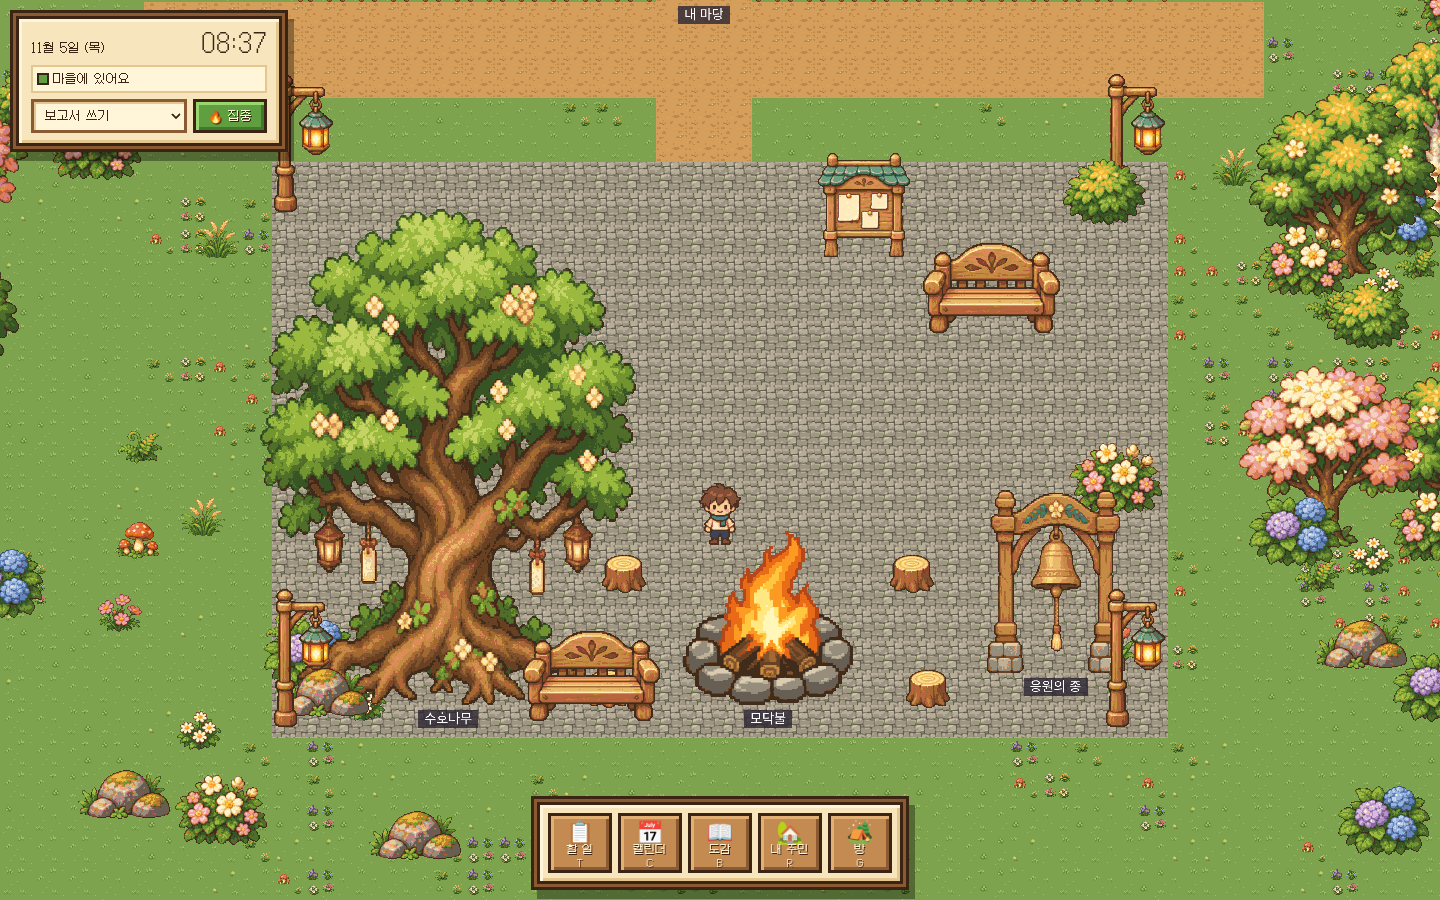
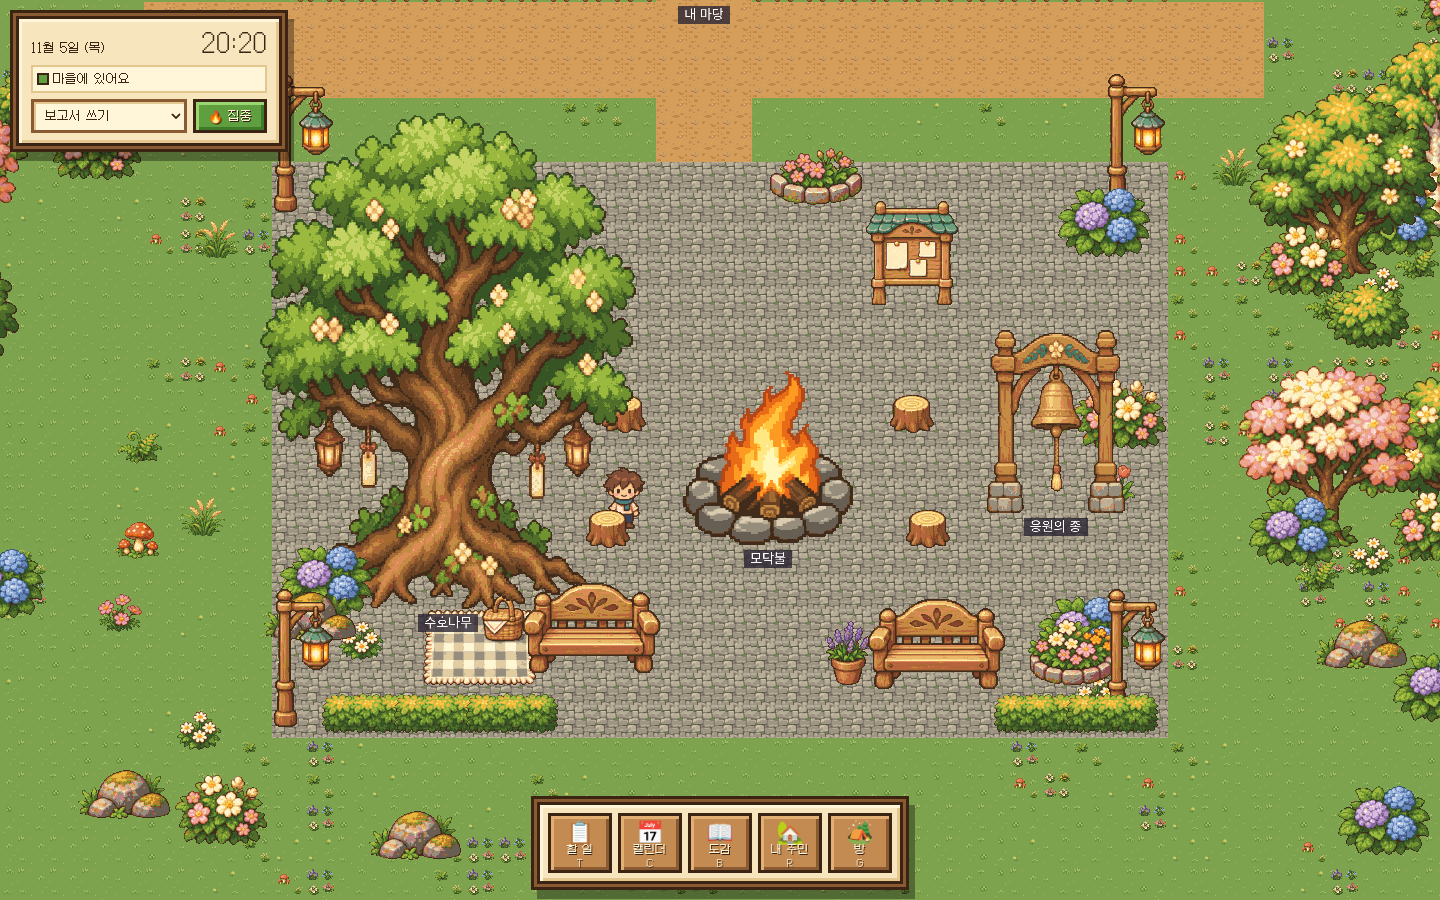
Rebalance plaza landmarks and add garden seating

Changed region(s): [[0.1562, 0.1244, 0.8125, 0.84], [0.5938, 0.4356, 0.6562, 0.4978], [0.1562, 0.0311, 0.1875, 0.0622]]

diff --git a/src/world/decor.ts b/src/world/decor.ts
@@ -160,23 +160,31 @@ export function plazaDecor(layout: VillageLayout): DecorItem[] {
   const fy = fire.row + 1;
   const bottom = plaza.row + plaza.rows;
   return [
-    // 모닥불 둘레의 그루터기 의자와 뒤쪽 벤치
+    // 중앙 모닥불과 좌석. 최대 크기에서도 의자와 돌 테두리가 겹치지 않아요.
     item('decor-stump', fx - 5, fy + 0.1), item('decor-stump', fx + 5, fy + 0.1),
     item('decor-stump', fx - 4.5, fy - 3.5), item('decor-stump', fx + 4.5, fy - 3.5),
-    item('decor-bench', anchors.guardianTree.col + 5, bottom - 0.5),
-    item('decor-bench', plaza.col + 22.5, plaza.row + 5.4),
-    // 광장 입구 옆 게시판, 양쪽 아래 등불
-    item('decor-noticeboard', plaza.col + 18.5, plaza.row + 3),
+    // 아래쪽은 나무 그늘과 꽃정원 쉼터. 가운데 3칸은 계속 열어 둬요.
+    item('decor-bench', anchors.guardianTree.col + 5, bottom - 2),
+    item('decor-picnic', anchors.guardianTree.col + 1.5, bottom - 1.6),
+    item('decor-bench', plaza.col + 20.8, bottom - 1.5),
+    item('decor-flowerbed-round', plaza.col + 25, bottom - 1.6),
+    item('decor-pot-lavender', plaza.col + 18, bottom - 1.6),
+    item('decor-bush-hydrangea', plaza.col + 25.4, bottom - 2.2),
+    item('decor-flowers-daisy', plaza.col + 25.8, bottom - 0.7),
+    // 북쪽 입구 옆의 환영 꽃밭과 게시판, 네 귀퉁이 등불
+    item('decor-flower-border', plaza.col + 17, plaza.row + 1.4),
+    item('decor-noticeboard', plaza.col + 20, plaza.row + 4.5),
     item('decor-lantern', plaza.col + 1, bottom - 0.3), item('decor-lantern', plaza.col + plaza.cols - 1, bottom - 0.3),
     item('decor-lantern', plaza.col + 1, plaza.row + 1.6), item('decor-lantern', plaza.col + plaza.cols - 1, plaza.row + 1.6),
-    // 수호나무 주변과 광장 가장자리의 꽃과 덤불
-    item('decor-bush-hydrangea', anchors.guardianTree.col - 3.8, bottom - 1.5),
-    item('decor-moss-rocks', anchors.guardianTree.col - 3.4, bottom - 0.6),
-    item('decor-flowers-daisy', anchors.guardianTree.col - 2.1, bottom - 0.5),
-    item('decor-fern', anchors.guardianTree.col - 4.5, bottom - 2.8),
-    item('decor-bush-round', plaza.col + plaza.cols - 2, plaza.row + 2),
-    item('decor-bush-blossom', plaza.col + plaza.cols - 1.6, plaza.row + 11),
+    // 수호나무 밑동에 식물을 붙여 놓고, 종 옆과 남쪽 가장자리에도 녹색 테두리를 만들어요.
+    item('decor-bush-hydrangea', anchors.guardianTree.col - 3.3, anchors.guardianTree.row + 1.2),
+    item('decor-moss-rocks', anchors.guardianTree.col - 3.8, anchors.guardianTree.row + 2),
+    item('decor-flowers-daisy', anchors.guardianTree.col - 2.2, anchors.guardianTree.row + 2.6),
+    item('decor-fern', anchors.guardianTree.col - 4, anchors.guardianTree.row + 0.6),
+    item('decor-bush-hydrangea', plaza.col + plaza.cols - 2, plaza.row + 3),
+    item('decor-bush-blossom', plaza.col + plaza.cols - 1.5, plaza.row + 9),
     item('decor-flowers-tulip', anchors.bell.col + 2.3, anchors.bell.row + 0.8),
+    ...[3, 5.25, 7.5, 24, 26.25].map((dx) => item('decor-hedge', plaza.col + dx, bottom - 0.1)),
   ];
 }
 

diff --git a/src/world/layout.ts b/src/world/layout.ts
@@ -73,9 +73,9 @@ export const TEMPLATE = {
   plaza: { col: 34, row: 30, cols: 28, rows: 18 },
   plazaConnector: { col: 46, row: 28, cols: 3, rows: 2 },
   anchors: {
-    guardianTree: { col: 39, row: 46 },
-    campfire: { col: 49, row: 46 },
-    bell: { col: 58, row: 45 },
+    guardianTree: { col: 39, row: 43 },
+    campfire: { col: 49, row: 41 },
+    bell: { col: 58, row: 40 },
   },
   boundsPaddingCols: 2,
   boundsPaddingRows: { top: 3, bottom: 2 },

diff --git a/AGENTS.md b/AGENTS.md
@@ -217,7 +217,7 @@
   - 모든 마당 공통: 320픽셀 집 앞 돌 테라스, 왼쪽 나무 그늘·벤치·돗자리, 오른쪽 꽃·원예 공간, 아래 귀퉁이의 관목·꽃·돌 무리. 무리 안에서만 위치를 조금씩 달리하고 가운데 활동 공간과 3타일 길은 비워요.
   - 마당 크기는 28×22타일 그대로예요. 커진 집이 북쪽 울타리 안에 들어가도록 집 기준점을 아래로 옮겼고, 반죽·주민 시작 위치도 집 아래쪽 빈터에 맞췄어요.
   - 풀 바닥은 마당 안이면 그 테마의 꽃 풀밭, 바깥이면 섞인 들꽃·고사리·버섯 풀밭을 3×3칸 무리로 섞어요.
-  - 광장은 28×18타일. 수호나무는 왼쪽, 모닥불과 그루터기 의자는 가운데 아래쪽, 종·게시판·벤치는 오른쪽에 놓아요. 큰 나무와 의자가 광장 입구 길을 막지 않게 해요.
+  - 광장은 28×18타일. 수호나무는 왼쪽 위, 모닥불과 그루터기 의자는 가운데, 종·게시판은 오른쪽 위에 놓아요. 아래쪽은 나무 그늘의 벤치·돗자리와 꽃정원 쉼터, 낮은 생울타리로 채워요. 광장 입구와 가운데 3타일 폭 통로는 열어 둬요.
   - 마을 바깥: 위쪽에 나무 띠, 마당 사이와 큰길 아래 풀밭에 나무·덤불·꽃 무리 (길·광장·마당은 피해요).
   - 꽃·풀·돗자리는 지나갈 수 있고(캐릭터 아래 층), 나머지는 발밑만 막고 발밑 y로 앞뒤를 정해요.
 - `design/village/layout-template.json`과 `expandable-layout.mjs`는 인원 상한 없는 배치 참고 자료예요. 앱은 6명부터 둥글게 퍼지는 배치를 써서, 이 참고 자료(좌우 한 줄 반복)와 달라요. 맞출지는 Codex·사용자가 정해요.

diff --git a/CLAUDE.md b/CLAUDE.md
@@ -217,7 +217,7 @@
   - 모든 마당 공통: 320픽셀 집 앞 돌 테라스, 왼쪽 나무 그늘·벤치·돗자리, 오른쪽 꽃·원예 공간, 아래 귀퉁이의 관목·꽃·돌 무리. 무리 안에서만 위치를 조금씩 달리하고 가운데 활동 공간과 3타일 길은 비워요.
   - 마당 크기는 28×22타일 그대로예요. 커진 집이 북쪽 울타리 안에 들어가도록 집 기준점을 아래로 옮겼고, 반죽·주민 시작 위치도 집 아래쪽 빈터에 맞췄어요.
   - 풀 바닥은 마당 안이면 그 테마의 꽃 풀밭, 바깥이면 섞인 들꽃·고사리·버섯 풀밭을 3×3칸 무리로 섞어요.
-  - 광장은 28×18타일. 수호나무는 왼쪽, 모닥불과 그루터기 의자는 가운데 아래쪽, 종·게시판·벤치는 오른쪽에 놓아요. 큰 나무와 의자가 광장 입구 길을 막지 않게 해요.
+  - 광장은 28×18타일. 수호나무는 왼쪽 위, 모닥불과 그루터기 의자는 가운데, 종·게시판은 오른쪽 위에 놓아요. 아래쪽은 나무 그늘의 벤치·돗자리와 꽃정원 쉼터, 낮은 생울타리로 채워요. 광장 입구와 가운데 3타일 폭 통로는 열어 둬요.
   - 마을 바깥: 위쪽에 나무 띠, 마당 사이와 큰길 아래 풀밭에 나무·덤불·꽃 무리 (길·광장·마당은 피해요).
   - 꽃·풀·돗자리는 지나갈 수 있고(캐릭터 아래 층), 나머지는 발밑만 막고 발밑 y로 앞뒤를 정해요.
 - `design/village/layout-template.json`과 `expandable-layout.mjs`는 인원 상한 없는 배치 참고 자료예요. 앱은 6명부터 둥글게 퍼지는 배치를 써서, 이 참고 자료(좌우 한 줄 반복)와 달라요. 맞출지는 Codex·사용자가 정해요.

diff --git a/design/village/README.md b/design/village/README.md
@@ -34,7 +34,8 @@
 - 테마는 주인 userId에 따라 햇살·보라 숲·분홍 소풍으로 고정됩니다. 무리 안의 위치도 고정 seed를 사용합니다.
 - 반죽은 테라스 아래, 주민은 마당 아래쪽 활동 공간에서 시작합니다. 집이 커져도 뒤에 가려지거나 울타리 밖으로 생성되지 않게 했습니다.
 - 집 앞에서 남쪽 문까지 최소 3타일 폭 길이 열려 있습니다.
-- 광장은 28×18타일입니다. 큰 수호나무가 왼쪽을 감싸고, 가운데 아래에는 모닥불·그루터기 좌석, 오른쪽에는 종·게시판·벤치가 있습니다.
+- 광장은 28×18타일입니다. 수호나무는 왼쪽 위를 감싸고, 모닥불·그루터기 좌석은 가운데, 종·게시판은 오른쪽 위에 놓습니다.
+- 아래쪽은 그늘 벤치·돗자리와 꽃정원 벤치로 채우고, 낮은 생울타리·수국·화분으로 테두리를 만듭니다. 입구와 가운데 3타일 폭 통로는 열어 둡니다.
 - `worldBlocks`가 실제 충돌 영역을 만듭니다. 나뭇잎과 투명 여백은 통과하고 밑동·벽·기둥·가구 발밑에 부딪힙니다.
 
 ## 방 인원에 따른 확장
